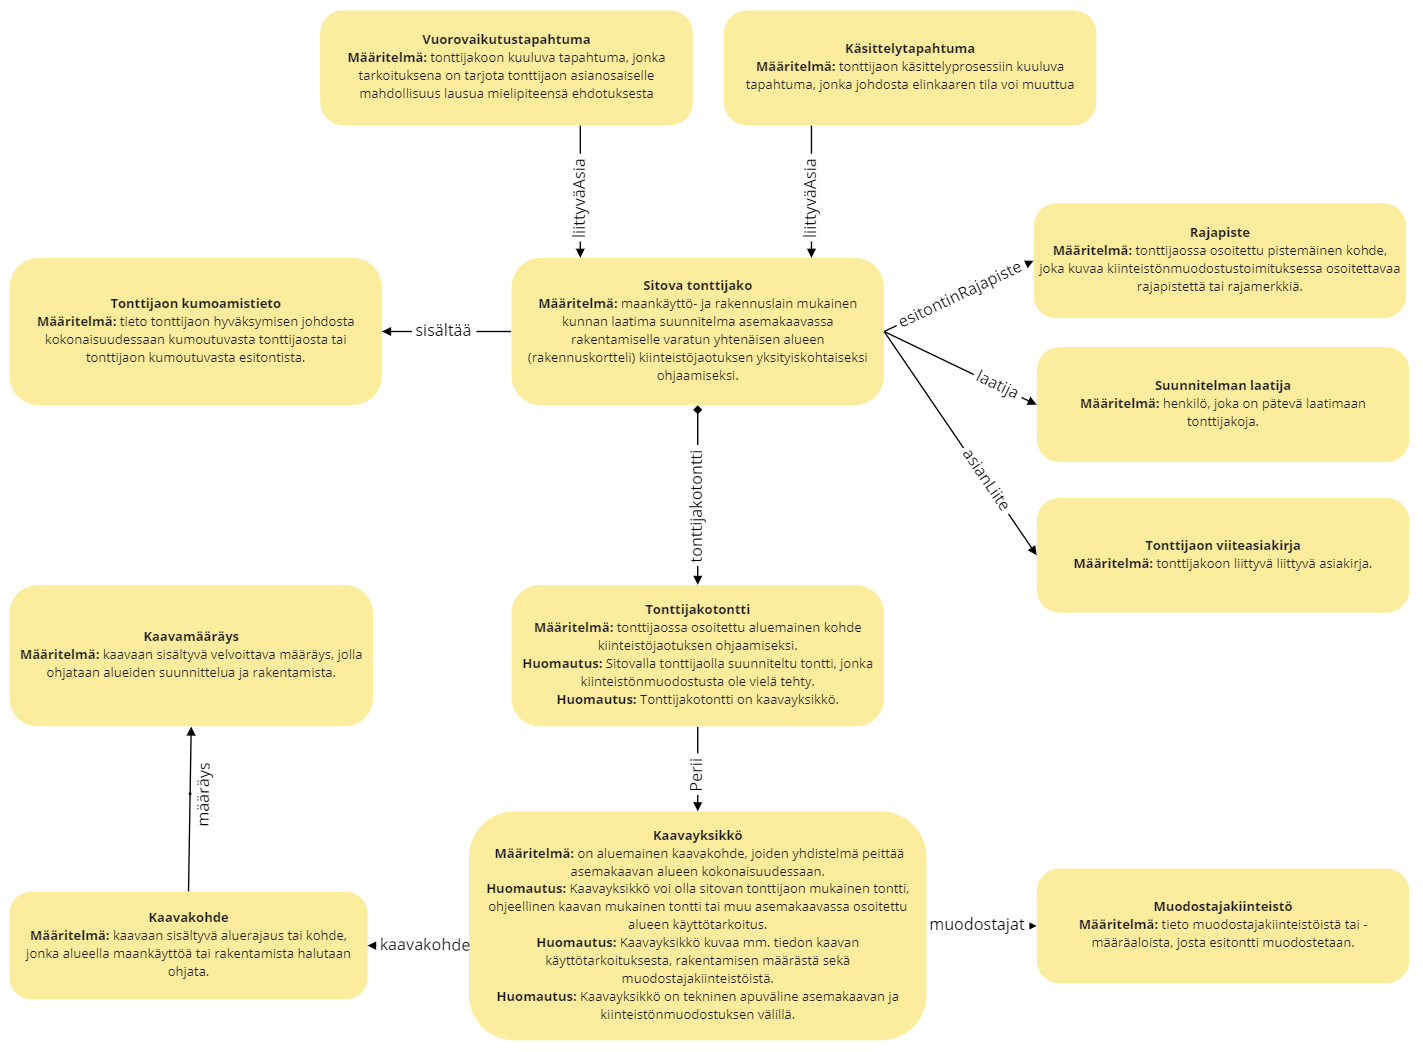
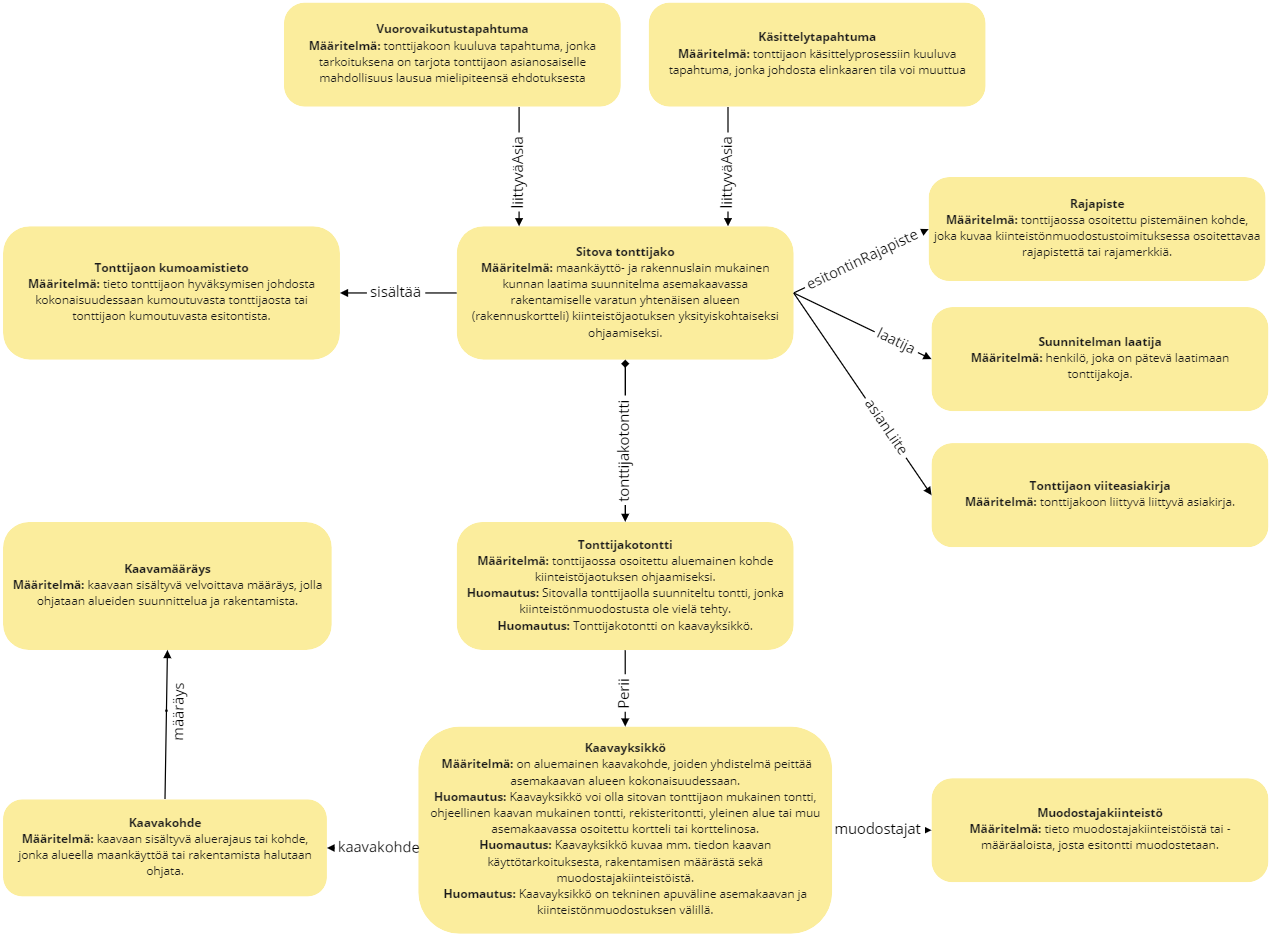
Update dev

diff --git a/kasitemalli/index.md b/kasitemalli/index.md
@@ -54,7 +54,7 @@ Tällä sivulla esitellyt käsitteet ovat luettavissa yhteentoimivuusalustan [sa
 {% include common/definitionref.html dict="rytj-kaava" dictname="Kaavatietomalli" id="concept-1010" name="kaavamääräys" def="kaavaan sisältyvä velvoittava määräys, jolla ohjataan alueiden suunnittelua ja rakentamista." %}
 
 ### Kaavayksikkö
-{% include common/definitionref.html dict="rytj-kaava" dictname="Kaavatietomalli" id="concept-1010" name="kaavayksikkö" def="on aluemainen kaavakohde, joiden yhdistelmä peittää asemakaavan alueen kokonaisuudessaan." note="Kaavayksikkö voi olla sitovan tonttijaon mukainen tontti, ohjeellinen kaavan mukainen tontti tai muu asemakaavassa osoitettu alueen käyttötarkoitus. Kaavayksikkö kuvaa mm. tiedon kaavan käyttötarkoituksesta, rakentamisen määrästä sekä muodostajakiinteistöistä. Kaavayksikkö on tekninen apuväline asemakaavan ja kiinteistönmuodostuksen välillä." %}
+{% include common/definitionref.html dict="rytj-kaava" dictname="Kaavatietomalli" id="concept-1010" name="kaavayksikkö" def="kaavayksiköiden yhdistelmä peittää asemakaavan alueen kokonaisuudessaan." note="Kaavayksikkö voi olla sitovan tonttijaon mukainen tontti, ohjeellinen kaavan mukainen tontti, rekisteritontti, yleinen alue tai muu asemakaavassa osoitettu kortteli tai korttelinosa. Kaavayksikkö kuvaa mm. tiedon kaavan käyttötarkoituksesta, rakentamisen määrästä sekä muodostajakiinteistöistä. Kaavayksikkö on tekninen apuväline asemakaavan ja kiinteistönmuodostuksen välillä." %}
 
 <!-- ### Kaavayksikön muutostieto
 {% include common/definitionref.html dict="rytj-tjs" dictname="Kaavatietomalli" id="concept-10" name="kaavayksikön muutostieto" def="kuvaa asemakaavan muutoksen mahdolliset lajit." note="Lähde: perustuu JHS 135 kaavalaji-luokitteluun." %} -->
